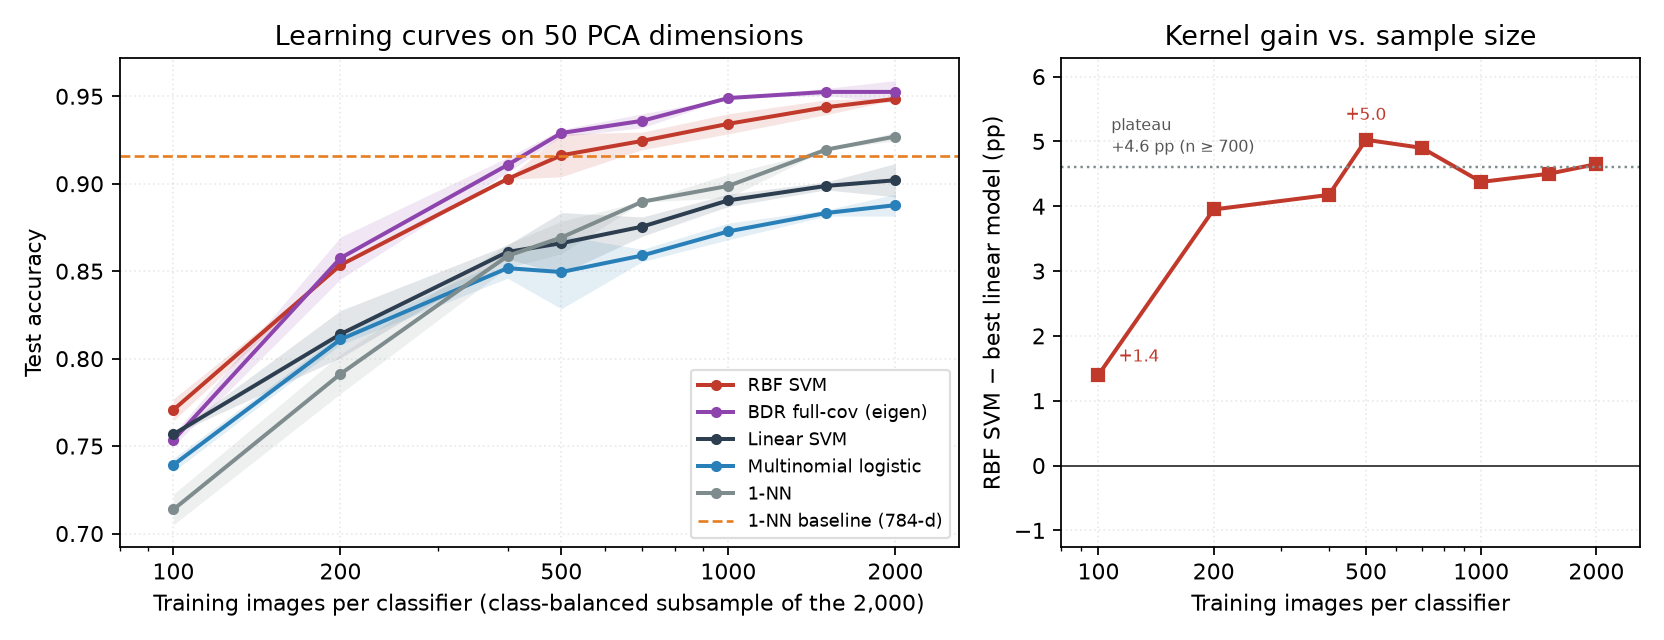
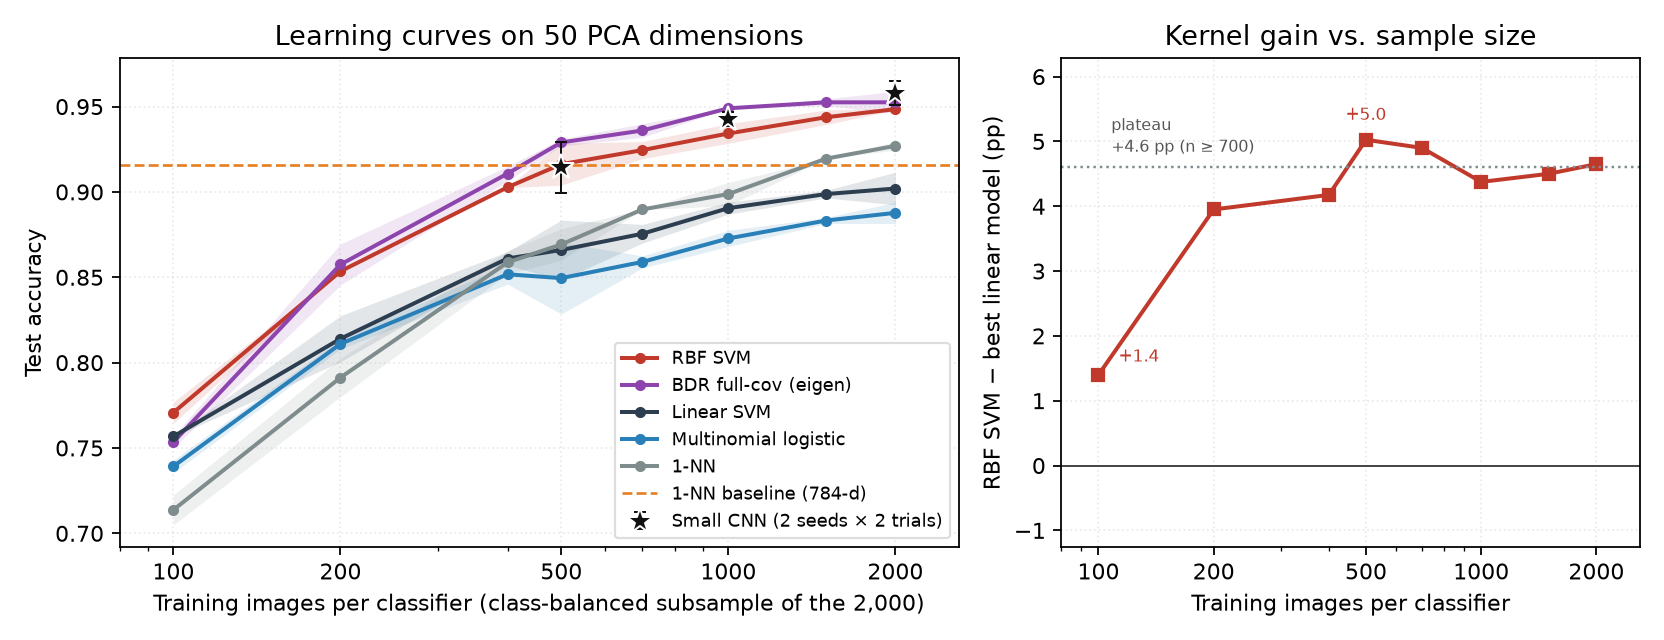
Add a small CNN as a control group
The rest of the study holds the feature space fixed and varies the boundary; a convnet
changes both, so it is the natural control for "is the extra machinery worth it?".

Result: the CNN wins only at the full 2,000 images, by 0.6 pp over QDA on 50 PCA dimensions
(0.9580 vs 0.9525). At n <= 1,000 it loses to a quadratic discriminant. Seed spread at
n=500 is 3.3 pp, larger than most effects discussed in the report, and validation accuracy
sits 2.4 pp above test accuracy on average because the validation slice shares writers with
training while the test set does not.

Training a run costs 1.2-3.5 s on 4 CPU threads, i.e. less than one RBF SVM grid-search
cell, so compute is not what kept deep models out of the main study.

Torch is only needed for this script (requirements-cnn.txt); the rest of the pipeline runs
on numpy/sklearn alone.

diff --git a/cnn_control.py b/cnn_control.py
@@ -1,0 +1,180 @@
+"""Control group: does a convolutional net beat the kernel on this data, and at what cost?
+
+Motivation
+----------
+The main study shows an RBF SVM beating the best linear model by ~4-5 pp on a fixed feature
+space, which says the *shape* of the boundary matters. A CNN differs from both in a way that
+no feature-space argument captures: it learns a translation-equivariant representation instead
+of being handed one. So the honest question is not "is the CNN better" (with 2,000 images it
+may well not be) but "how much data does the extra inductive bias need to pay off".
+
+Protocol
+--------
+Same two trials, same training subsetting as run_learning_curve.py, same test evaluation.
+A stratified 10% of the training images is held out for early stopping; that validation split
+is carved from the training set only, so the test set stays untouched until the final score.
+Several seeds are run per (trial, n) because a single CNN run is not a measurement.
+
+Install with: pip install -r requirements-cnn.txt
+Usage: python cnn_control.py [--sizes 500,1000,2000] [--seeds 1,2]
+"""
+from __future__ import annotations
+
+import argparse
+import json
+import sys
+import time
+
+import numpy as np
+import torch
+import torch.nn as nn
+
+from common import load_digits
+from exp_lib import RESULTS
+
+torch.set_num_threads(4)
+
+SIZES = [500, 1000, 2000]
+SEEDS = [1, 2]
+EPOCHS = 40
+PATIENCE = 6
+BATCH = 64
+VAL_FRACTION = 0.10
+
+
+class SmallCNN(nn.Module):
+    def __init__(self) -> None:
+        super().__init__()
+        self.features = nn.Sequential(
+            nn.Conv2d(1, 16, 3, padding=1), nn.BatchNorm2d(16), nn.ReLU(), nn.MaxPool2d(2),
+            nn.Conv2d(16, 32, 3, padding=1), nn.BatchNorm2d(32), nn.ReLU(), nn.MaxPool2d(2),
+        )
+        self.head = nn.Sequential(
+            nn.Flatten(),
+            nn.Linear(32 * 7 * 7, 128), nn.ReLU(), nn.Dropout(0.3),
+            nn.Linear(128, 10),
+        )
+
+    def forward(self, x):
+        return self.head(self.features(x))
+
+
+def stratified_split(y: np.ndarray, frac: float, seed: int) -> tuple[np.ndarray, np.ndarray]:
+    rng = np.random.default_rng(seed)
+    val = []
+    for c in np.unique(y):
+        idx = np.flatnonzero(y == c)
+        val.append(rng.choice(idx, size=max(1, int(round(len(idx) * frac))), replace=False))
+    val = np.sort(np.concatenate(val))
+    mask = np.ones(len(y), bool)
+    mask[val] = False
+    return np.flatnonzero(mask), val
+
+
+def stratified_subsample(y: np.ndarray, n: int, seed: int) -> np.ndarray:
+    rng = np.random.default_rng(seed)
+    per_class = n // len(np.unique(y))
+    keep = [rng.choice(np.flatnonzero(y == c), size=per_class, replace=False) for c in np.unique(y)]
+    return np.sort(np.concatenate(keep))
+
+
+def train_one(Xtr, ytr, Xte, yte, seed: int) -> dict:
+    torch.manual_seed(seed)
+    np.random.seed(seed)
+
+    fit_idx, val_idx = stratified_split(ytr, VAL_FRACTION, seed)
+    Xf, yf = Xtr[fit_idx], ytr[fit_idx]
+    Xv, yv = Xtr[val_idx], ytr[val_idx]
+
+    model = SmallCNN()
+    opt = torch.optim.Adam(model.parameters(), lr=1e-3, weight_decay=1e-4)
+    loss_fn = nn.CrossEntropyLoss()
+
+    Xf_t = torch.from_numpy(Xf).view(-1, 1, 28, 28)
+    yf_t = torch.from_numpy(yf).long()
+    Xv_t = torch.from_numpy(Xv).view(-1, 1, 28, 28)
+    Xte_t = torch.from_numpy(Xte).view(-1, 1, 28, 28)
+
+    best_val, best_state, best_epoch, waited = -1.0, None, 0, 0
+    history = []
+    t0 = time.perf_counter()
+    for epoch in range(1, EPOCHS + 1):
+        model.train()
+        perm = torch.randperm(len(Xf_t))
+        tot = 0.0
+        for i in range(0, len(perm), BATCH):
+            b = perm[i:i + BATCH]
+            opt.zero_grad()
+            loss = loss_fn(model(Xf_t[b]), yf_t[b])
+            loss.backward()
+            opt.step()
+            tot += float(loss.detach()) * len(b)
+        model.eval()
+        with torch.no_grad():
+            val_acc = float((model(Xv_t).argmax(1) == torch.from_numpy(yv).long()).float().mean())
+        history.append({"epoch": epoch, "train_loss": round(tot / len(Xf_t), 4), "val_acc": round(val_acc, 4)})
+        if val_acc > best_val + 1e-6:
+            best_val, best_epoch, waited = val_acc, epoch, 0
+            best_state = {k: v.clone() for k, v in model.state_dict().items()}
+        else:
+            waited += 1
+            if waited >= PATIENCE:
+                break
+
+    model.load_state_dict(best_state)
+    model.eval()
+    with torch.no_grad():
+        pred = model(Xte_t).argmax(1).numpy()
+    return {
+        "val_acc": round(best_val, 4),
+        "test_acc": round(float((pred == yte).mean()), 4),
+        "best_epoch": best_epoch,
+        "seconds": round(time.perf_counter() - t0, 1),
+        "history": history,
+    }
+
+
+def main() -> None:
+    ap = argparse.ArgumentParser()
+    ap.add_argument("--sizes", default=",".join(str(s) for s in SIZES))
+    ap.add_argument("--seeds", default=",".join(str(s) for s in SEEDS))
+    args = ap.parse_args()
+
+    sizes = [int(s) for s in args.sizes.split(",") if s]
+    seeds = [int(s) for s in args.seeds.split(",") if s]
+
+    Xraw, y, trials = load_digits()
+    X = (Xraw / 255.0).astype(np.float32)
+
+    out = RESULTS / "cnn_control.jsonl"
+    done = set()
+    if out.exists():
+        for line in out.read_text(encoding="utf-8").splitlines():
+            if line.strip():
+                r = json.loads(line)
+                done.add((r["n_train"], r["trial"], r["seed"]))
+
+    total = len(sizes) * len(trials) * len(seeds)
+    i = 0
+    for n in sizes:
+        for t, (tr, te) in enumerate(trials):
+            sub = tr[stratified_subsample(y[tr], n, seed=t + 1)] if n < len(tr) else tr
+            for seed in seeds:
+                i += 1
+                if (n, t, seed) in done:
+                    print(f"[{i}/{total}] skip n={n:<5d} trial{t + 1} seed{seed}", flush=True)
+                    continue
+                res = train_one(X[sub], y[sub], X[te], y[te], seed)
+                rec = {"n_train": int(n), "trial": t, "seed": seed, **res}
+                with out.open("a", encoding="utf-8") as f:
+                    f.write(json.dumps(rec) + "\n")
+                print(
+                    f"[{i}/{total}] n={n:<5d} trial{t + 1} seed{seed} "
+                    f"test={res['test_acc']:.4f} val={res['val_acc']:.4f} "
+                    f"epoch={res['best_epoch']} ({res['seconds']:.0f}s)",
+                    flush=True,
+                )
+
+
+if __name__ == "__main__":
+    sys.exit(main())

diff --git a/README.md b/README.md
@@ -112,6 +112,38 @@ so that the whole figure can be inspected without any risk of tuning on test dat
 5. **The best CV accuracy barely depends on dimension** (PCA-50 0.952, PCA-200 0.949, raw 784 0.948).
    Independent evidence for the main claim, obtained without touching the test set.
 
+## Control group: a small CNN
+
+Everything above holds the feature space fixed and varies the boundary. A convnet changes both,
+so it is the natural control: if the whole "kernel gain" story were about boundary shape, a model
+that *learns* its own translation-equivariant features should still be the one to beat.
+
+Architecture: conv(16)-BN-ReLU-pool → conv(32)-BN-ReLU-pool → FC(128)-dropout → FC(10); Adam, 40
+epochs max with early stopping on a 10% stratified slice of the training set, 2 seeds × 2 trials.
+No augmentation — the point is the model class, not a tuned pipeline.
+
+| n | Small CNN | RBF SVM | QDA (eigen) | Linear SVM |
+|---|---|---|---|---|
+| 500 | 0.9144 ± 0.0148 | 0.9162 | **0.9290** | 0.8660 |
+| 1,000 | 0.9428 ± 0.0040 | 0.9342 | **0.9490** | 0.8905 |
+| 2,000 | **0.9580 ± 0.0073** | 0.9485 | 0.9525 | 0.9020 |
+
+1. **The CNN only wins at the largest sample size, and by half a point.** 0.9580 vs 0.9525 for
+   QDA on 50 PCA dimensions. The claimed "deep learning" advantage is real but of the same order
+   as the kernel-vs-linear gap (+4.7 pp) that this project set out to explain — not larger.
+2. **At n ≤ 1,000 it loses to a quadratic discriminant.** With 50 PCA components and a
+   quadratic boundary you are already at 94.9%, and the CNN has not yet amortised its parameters.
+3. **Seed variance at n = 500 is larger than most effects discussed here** (0.9025–0.9360, a 3.3 pp
+   spread over four runs). Any single-run CNN comparison at this scale is not a measurement.
+4. **In-writer validation is optimistic by 2.4 pp on average** (validation accuracy minus test
+   accuracy over all 12 runs). The validation slice is carved from the training set, so it shares
+   writers with training while the test set does not. Early stopping on it therefore stops at a
+   slightly wrong place, and any hyper-parameter chosen on it inherits the same bias. This is a
+   concrete argument for why the assignment's writer-disjoint split matters.
+5. **It is not the expensive option here.** Training one CNN takes 1.2 / 2.0 / 3.5 s at
+   n = 500 / 1,000 / 2,000 on 4 CPU threads — less than one RBF SVM grid search cell (12–25 s).
+   Whatever keeps deep models out of this project, it is not compute.
+
 ## Dataset and protocol
 
 - Provided subset of MNIST: 4,000 images, 10 classes, 400 each, 784-d pixel vectors.
@@ -139,6 +171,9 @@ python run_gamma_sensitivity.py  # (C, gamma) surface, training CV  (~18 min)
 python analyze.py              # markdown tables  -> results/
 python figures.py              # figures          -> results/figs/
 python confusion.py bdr_full pca50   # per-class recall + confusion matrix
+
+pip install -r requirements-cnn.txt   # optional, only for the control group
+python cnn_control.py          # small CNN, 2 sizes x 2 seeds      (~1 min)
 ```
 
 `run_grid.py` and `run_sweep.py` append one JSON record per cell to `results/*.jsonl` and skip
@@ -157,6 +192,7 @@ run_grid.py        stage 1: classifier x preprocessing, 2 trials
 run_sweep.py       stage 2: accuracy vs retained dimension
 run_learning_curve.py     stage 3: accuracy vs training-set size
 run_gamma_sensitivity.py  stage 4: (C, gamma) surface from training-set CV
+cnn_control.py     control group: small CNN vs the classical models
 analyze.py         aggregates jsonl -> csv / markdown tables
 figures.py         fig1-3, fig5-6
 confusion.py       error analysis + fig4
@@ -168,7 +204,7 @@ proposal/          one-page project proposal (HTML source + PDF)
 ## Status
 
 Implemented: baseline reproduction, full classifier × preprocessing grid, dimension sweep,
-learning curves, (C, γ) sensitivity surface, error analysis.
+learning curves, (C, γ) sensitivity surface, error analysis, small-CNN control group.
 
 Still to do for the final report: explicit 1-vs-all confidence rules (how to arbitrate when
 several one-vs-all classifiers claim a digit), and the write-up itself.
